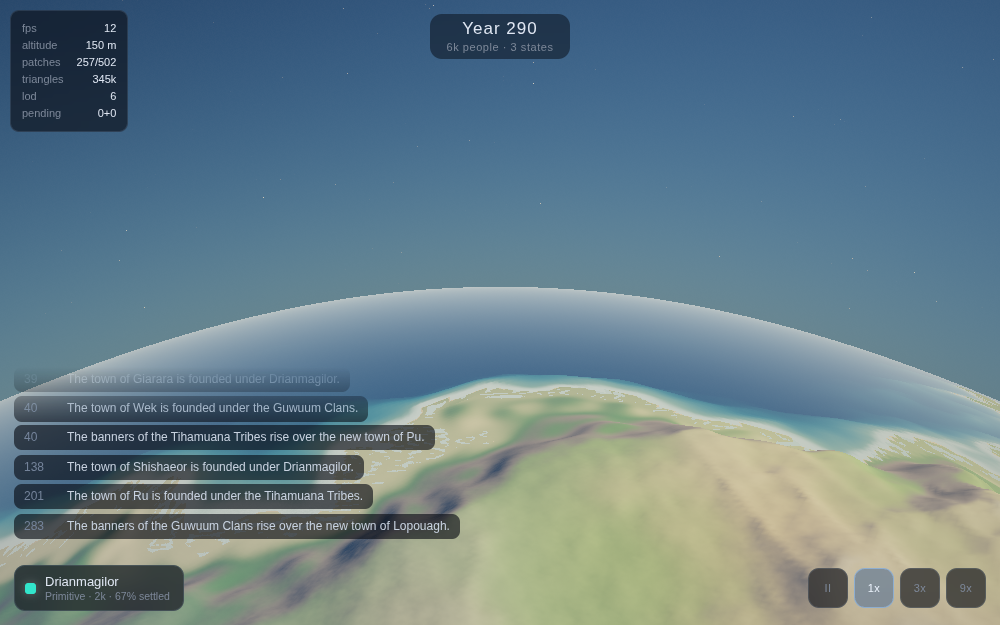
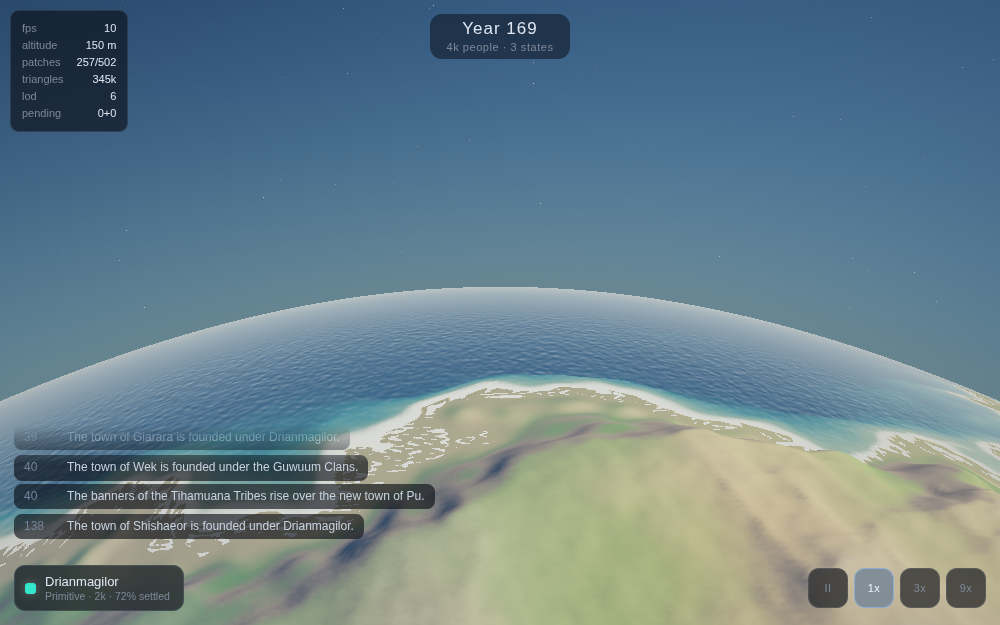
Rewrite the water: animated wave stack, surf, and a shore that joins up
The ocean was a mirror at every altitude a player actually looks at it
from, and the waterline read as two materials butting together rather
than as one shore.

Waves are now a stack of three bands — an eighteen-metre swell, wind
chop, and surface ripple — each drifting in its own direction at its own
speed, and each faded out once its wavelength drops below roughly four
pixels. That last part is the whole trick: a band is either large enough
to read as a wave or it is gone, so an ocean seen at a grazing angle
never turns into crawling speckle.

What fades out of the geometry is folded into roughness instead, which
is what waves below a pixel physically are. The sun's reflection
therefore broadens from a hard spark into the wide glitter path an ocean
shows from altitude, rather than the sea going glassy the moment you
climb.

The normal is deliberately shallow. Water is shaded through a Fresnel
term raised to the fifth power, and at grazing angles that turns a
modest slope into an enormous swing in reflectance — the first version
looked right head-on and stippled the entire sea at the horizon.

Shoreline:
- The waterline itself surges in and out on a slow cycle, out of phase
  along the coast, so a beach animates even when individual waves are
  far below a pixel.
- Foam breaks over it with shoreward-scrolling noise, plus a thin lip
  that always survives so the edge never disappears between surges.
- Shallow water refracts the sea floor, with the offset scaled by depth
[…]

diff --git a/src/render/post/compositeShader.ts b/src/render/post/compositeShader.ts
@@ -32,6 +32,8 @@ uniform sampler2D tDepth;
 uniform mat4 uInvProjView;
 uniform vec3 uCameraPos;
 uniform vec3 uCameraForward;
+uniform vec3 uCameraRight;
+uniform vec3 uCameraUp;
 uniform float uNear;
 uniform float uFar;
 
@@ -48,6 +50,7 @@ uniform float uScaleHeightR;
 uniform float uScaleHeightM;
 uniform float uAtmosphereStrength;
 uniform float uProjScale;
+uniform float uTanHalfFov;
 
 varying vec2 vUv;
 
@@ -194,35 +197,107 @@ void scatter(
 /* ------------------------------------------------------------------ ocean */
 
 /**
- * Animated surface normal.
+ * One band of the wave stack.
  *
- * Waves are about a metre across, so whether they can be drawn at all depends
- * on how much world space one pixel covers here — which at a grazing angle
- * across an ocean is vastly more than the distance alone suggests. Fading on
- * that footprint rather than on distance is the difference between a moving
- * sea and a field of white speckle.
+ * The weight argument is how much of this band survives at the current pixel
+ * footprint. A band is either large enough to resolve — in which case it is
+ * animated and contributes a real gradient — or it is gone. Nothing is ever
+ * drawn at a frequency the screen cannot represent, which is what keeps an
+ * ocean seen at a grazing angle from turning into crawling speckle.
+ *
+ * Single-octave value noise per band, not fBm: the stack already provides the
+ * octaves, and four texture-free samples a band is affordable in a fullscreen
+ * pass where twelve would not be.
  */
-vec3 waterNormal(vec3 pos, vec3 up, vec3 dir, float dist) {
-  float grazing = max(dot(up, -dir), 0.06);
-  float footprint = (dist / uProjScale) / grazing;
-  float detail = 1.0 - smoothstep(0.22, 1.0, footprint);
-  if (detail < 0.01) return up;
-
-  // Two scrolling octaves: a slow swell and a finer chop over it.
-  vec3 q = pos * 0.55 + vec3(0.0, uTime * 0.05, 0.0);
-  vec3 r = pos * 1.7 - vec3(uTime * 0.09, 0.0, uTime * 0.06);
-  float fine = 1.0 - smoothstep(0.08, 0.35, footprint);
-  float e = 0.06;
-  float n0 = fbm3(q) + fbm3(r) * 0.35 * fine;
-  float nx = fbm3(q + vec3(e, 0.0, 0.0)) + fbm3(r + vec3(e, 0.0, 0.0)) * 0.35 * fine;
-  float ny = fbm3(q + vec3(0.0, e, 0.0)) + fbm3(r + vec3(0.0, e, 0.0)) * 0.35 * fine;
-  float nz = fbm3(q + vec3(0.0, 0.0, e)) + fbm3(r + vec3(0.0, 0.0, e)) * 0.35 * fine;
-  vec3 grad = vec3(nx - n0, ny - n0, nz - n0);
-  // Project out the component along the normal so the wave stays a wave.
-  grad -= up * dot(grad, up);
-  return normalize(up + grad * 4.0 * detail);
+vec3 waveBand(vec3 pos, float lambda, float speed, vec3 drift, float weight) {
+  if (weight <= 0.003) return vec3(0.0);
+  float f = 6.2831853 / lambda;
+  vec3 q = pos * f + drift * (uTime * speed);
+  const float e = 0.28;
+  float n0 = vnoise(q);
+  vec3 g = vec3(
+    vnoise(q + vec3(e, 0.0, 0.0)) - n0,
+    vnoise(q + vec3(0.0, e, 0.0)) - n0,
+    vnoise(q + vec3(0.0, 0.0, e)) - n0);
+  return g * (weight / e);
 }
 
+/**
+ * How much of a wavelength survives at this pixel footprint.
+ *
+ * A wave needs several pixels across it to read as a wave rather than as
+ * noise, so a band is gone well before it reaches one pixel — the cutoff is at
+ * roughly four pixels per wavelength, not one.
+ */
+float bandWeight(float lambda, float footprint) {
+  return 1.0 - smoothstep(lambda * 0.06, lambda * 0.22, footprint);
+}
+
+/** Trowbridge-Reitz, for a sun glint that widens as waves go sub-pixel. */
+float ggx(float ndh, float rough) {
+  float a = rough * rough;
+  float a2 = a * a;
+  float d = ndh * ndh * (a2 - 1.0) + 1.0;
+  return a2 / (PI * d * d + 1e-7);
+}
+
+struct Water {
+  vec3 normal;
+  float roughness;
+};
+
+/**
+ * The sea surface: an animated normal plus the roughness of everything too
+ * small to animate.
+ *
+ * The second half matters as much as the first. Waves below a pixel do not
+ * vanish physically, they become microfacets — so as each band fades out of the
+ * normal it is folded into the roughness instead, and the sun's reflection
+ * broadens from a hard spark into the wide glitter path an ocean actually shows
+ * from altitude. Without it the sea is a mirror the moment you climb, which is
+ * the single most obvious tell that water is being faked.
+ */
+Water seaSurface(vec3 pos, vec3 up, vec3 dir, float dist) {
+  float grazing = max(dot(up, -dir), 0.05);
+  float footprint = (dist / uProjScale) / grazing;
+
+  // Long swell, wind chop, and surface ripple.
+  float wSwell = bandWeight(18.0, footprint);
+  float wChop = bandWeight(4.5, footprint);
+  float wRipple = bandWeight(1.1, footprint);
+
+  vec3 grad = vec3(0.0);
+  grad += waveBand(pos, 18.0, 0.9, vec3(0.7, 0.2, 0.6), wSwell);
+  grad += waveBand(pos, 4.5, 2.1, vec3(-0.5, 0.1, 0.85), wChop * 0.45);
+  grad += waveBand(pos, 1.1, 4.5, vec3(0.9, 0.0, -0.4), wRipple * 0.2);
+
+  // Project out the component along the normal so a wave stays a wave.
+  grad -= up * dot(grad, up);
+
+  Water w;
+  // Kept small on purpose. The water is shaded through a Fresnel term raised
+  // to the fifth power, and at the grazing angles you see most of an ocean at,
+  // that turns a modest slope into a huge swing in reflectance — a normal
+  // strong enough to look right head-on stipples the whole sea at the horizon.
+  w.normal = normalize(up + grad * 0.16);
+  // Whatever faded out of the geometry reappears as microfacet roughness.
+  float resolved = (wSwell * 0.25 + wChop * 0.3 + wRipple * 0.45);
+  w.roughness = mix(0.34, 0.045, resolved);
+  return w;
+}
+
+/**
+ * How far the tide has run up the beach, 0..1.
+ *
+ * A slow surge, out of phase from one stretch of coast to the next so the whole
+ * planet does not breathe in unison. This is what animates a shoreline at zoom
+ * levels where individual waves are far too small to see: the waterline itself
+ * moves.
+ */
+float shoreSurge(vec3 pos) {
+  float phase = vnoise(pos * 0.012) * 6.2831853;
+  return 0.5 + 0.5 * sin(uTime * 0.55 + phase);
+}
 void main() {
   // Reconstruct the world-space view ray for this pixel.
   vec4 far = uInvProjView * vec4(vUv * 2.0 - 1.0, 1.0, 1.0);
@@ -249,47 +324,76 @@ void main() {
   if (sea.x > 0.0 && sea.x < sceneDist) {
     vec3 surface = uCameraPos + dir * sea.x;
     vec3 up = normalize(surface);
-    vec3 N = waterNormal(surface, up, dir, sea.x);
+    Water w = seaSurface(surface, up, dir, sea.x);
+    vec3 N = w.normal;
 
-    // How much water the ray passes through before hitting the sea floor.
+    // How much water the ray passes through before reaching the sea floor.
     float depth = hitScene ? (sceneDist - sea.x) : (sea.y - sea.x);
     depth = max(depth, 0.0);
 
-    // Absorption: the sea floor's colour is progressively replaced by the
-    // water's own, which is what makes shallows legible and deeps opaque.
-    // Absorption lengths are tuned to this planet's bathymetry, not Earth's:
-    // the deepest trench here is about 22 m, so water has to reach its full
-    // colour within a few metres or every sea reads as a bright lagoon.
-    const vec3 SHALLOW = vec3(0.050, 0.26, 0.30);
+    // Refraction. The sea floor is displaced by the surface slope, which is
+    // what makes shallow water shimmer. The offset is scaled by depth so it
+    // vanishes exactly at the waterline — otherwise it drags land colour out
+    // across the shore and fringes every beach.
+    vec3 slope = N - up;
+    // Apparent displacement of the floor, in metres, converted to a UV offset:
+    // the frustum spans 2*tan(fov/2)*distance world units vertically.
+    float disp = 0.4 * min(depth, 3.0);
+    vec2 offset = vec2(dot(slope, uCameraRight), dot(slope, uCameraUp))
+                * disp / (2.0 * uTanHalfFov * max(sea.x, 1.0));
+    offset = clamp(offset, vec2(-0.03), vec2(0.03));
+    vec3 floorColor = texture2D(tScene, vUv + offset).rgb;
+
+    // Absorption: the floor's colour is progressively replaced by the water's
+    // own. The lengths are tuned to this planet's bathymetry, not Earth's —
+    // the deepest trench here is 22 m — but kept deliberately soft, because a
+    // sharp ramp turns a one-metre LOD wobble in the sea floor into a visible
+    // band of colour crawling along the coast.
+    const vec3 SHALLOW = vec3(0.055, 0.30, 0.33);
     const vec3 DEEP    = vec3(0.003, 0.026, 0.072);
-    float absorb = 1.0 - exp(-depth * 0.34);
-    vec3 body = mix(color * vec3(0.42, 0.74, 0.82), SHALLOW, absorb);
-    body = mix(body, DEEP, 1.0 - exp(-depth * 0.115));
+    float absorb = 1.0 - exp(-depth * 0.24);
+    vec3 body = mix(floorColor * vec3(0.44, 0.76, 0.84), SHALLOW, absorb);
+    body = mix(body, DEEP, 1.0 - exp(-depth * 0.085));
 
     float shade = clamp(dot(up, uSunDir) * 1.4 + 0.12, 0.0, 1.0);
     body *= mix(0.10, 1.0, shade);
 
-    // Fresnel towards a simple sky tint. A full reflection probe is not worth
-    // it here: at these angles the sky is nearly uniform anyway.
+    // Fresnel towards a simple sky tint. A reflection probe is not worth it
+    // here: at these angles the sky is close to uniform anyway.
     float fres = 0.02 + 0.98 * pow(1.0 - max(dot(N, -dir), 0.0), 5.0);
     vec3 skyTint = mix(vec3(0.16, 0.28, 0.46), vec3(0.55, 0.70, 0.95), shade);
     vec3 water = mix(body, skyTint * (0.25 + 0.75 * shade), fres * 0.85);
 
-    // Sun glint.
+    // Sun glint, broadening with the roughness the wave stack handed back.
     vec3 H = normalize(uSunDir - dir);
-    float spec = pow(max(dot(N, H), 0.0), 400.0);
-    water += uSunColor * uSunIntensity * spec * 0.35 * step(0.0, dot(up, uSunDir));
+    float glint = ggx(max(dot(N, H), 0.0), w.roughness);
+    water += uSunColor * uSunIntensity * glint * 0.035
+           * step(0.0, dot(up, uSunDir)) * fres;
 
-    // Shoreline foam, only where the sea floor is nearly at the surface.
-    // Foam only right at the waterline. Widening this at all turns the whole
-    // continental shelf white, because a shelf on this planet is only metres
-    // deep across kilometres of coast.
-    if (hitScene && depth < 1.2) {
-      float band = smoothstep(1.0, 0.05, depth);
-      float churnScale = 1.0 - smoothstep(0.08, 0.5, (sea.x / uProjScale));
-      float churn = mix(0.5, fbm3(surface * 2.2 + vec3(uTime * 0.35)), churnScale);
-      float foam = band * smoothstep(0.38, 0.86, churn + band * 0.18);
-      water = mix(water, vec3(0.82, 0.89, 0.93) * (0.25 + 0.75 * shade), foam * 0.6);
+    /* --- Surf ------------------------------------------------------------ */
+    if (hitScene && depth < 3.2) {
+      float surge = shoreSurge(surface);
+      // The waterline itself advances and retreats, which is what reads as
+      // motion at zoom levels where a single wave is far below a pixel.
+      float reach = mix(0.5, 1.9, surge);
+      float band = smoothstep(reach, 0.0, depth);
+
+      // Broken water, scrolling shoreward and stretched along the coast.
+      float footprint = sea.x / uProjScale;
+      float churnDetail = 1.0 - smoothstep(0.05, 0.45, footprint);
+      float churn = mix(
+        0.55,
+        vnoise(surface * 1.9 + vec3(0.0, uTime * 0.9, 0.0)) * 0.6
+          + vnoise(surface * 5.5 - vec3(uTime * 1.7, 0.0, 0.0)) * 0.4,
+        churnDetail);
+
+      float foam = band * smoothstep(0.32, 0.86, churn + band * 0.30);
+      // A thin bright lip right at the edge, always present regardless of the
+      // noise, so the waterline never disappears entirely between surges.
+      foam = max(foam, smoothstep(0.35, 0.0, depth) * 0.55);
+
+      vec3 foamColor = vec3(0.86, 0.92, 0.95) * (0.28 + 0.72 * shade);
+      water = mix(water, foamColor, clamp(foam, 0.0, 1.0) * 0.8);
     }
 
     color = water;

diff --git a/src/render/materials/terrain.ts b/src/render/materials/terrain.ts
@@ -126,10 +126,20 @@ void main() {
     albedo = biomeColor(temperature, moisture);
     albedo = groundVariation(albedo, vWorldPos, moisture);
 
-    // Beaches: a narrow sand band just above the waterline, only where the
-    // ground is flat enough for sand to gather.
-    float beach = smoothstep(1.8, 0.1, height) * smoothstep(0.35, 0.1, slope);
-    albedo = mix(albedo, C_SAND, beach);
+    // Beaches: a sand band above the waterline, only where the ground is flat
+    // enough for sand to gather. Deliberately wider and softer than the water
+    // pass's shallow-water ramp — when the two transitions were the same width
+    // they met edge to edge at the waterline and read as two different
+    // materials butting together instead of one shore.
+    float beach = smoothstep(3.2, 0.2, height) * smoothstep(0.4, 0.12, slope);
+    albedo = mix(albedo, C_SAND, beach * 0.92);
+
+    // Wet sand. The strip the water has just been over is darker and shinier
+    // than the dry beach behind it, and it is the single cheapest thing that
+    // makes land and sea look like they belong to each other rather than being
+    // composited over one another.
+    float wet = smoothstep(1.4, 0.0, height) * smoothstep(0.45, 0.15, slope);
+    albedo *= mix(1.0, 0.58, wet);
 
     // Exposed rock on anything steep.
     vec3 rock = mix(C_ROCK, C_ROCK_WARM, temperature);
@@ -154,6 +164,10 @@ void main() {
   // the ground under your feet turns into pure aliasing out there.
   float camDist = length(cameraPosition - vWorldPos);
   float detail = uDetailStrength * (1.0 - smoothstep(40.0, 300.0, camDist));
+  // Never underwater. Seabed grain seen through the water fights the water's
+  // own surface detail, and the two crawling against each other at the
+  // shoreline is exactly the clash it looks like.
+  detail *= smoothstep(-0.5, 2.5, height);
 
   if (detail > 0.002) {
     vec3 dp = vWorldPos * 0.35;
@@ -220,7 +234,9 @@ void main() {
 
   // A dull sheen on wet ground and snow, enough to catch the low sun.
   float wetness = height > 0.0
-    ? max(smoothstep(0.62, 0.9, vData.y) * 0.25, smoothstep(0.3, 0.1, vData.z) * 0.4)
+    ? max(
+        max(smoothstep(0.62, 0.9, vData.y) * 0.25, smoothstep(0.3, 0.1, vData.z) * 0.4),
+        smoothstep(1.4, 0.0, height) * 0.65)
     : 0.5;
   vec3 V = normalize(cameraPosition - vWorldPos);
   vec3 H = normalize(V + uSunDir);

diff --git a/src/render/post/pipeline.ts b/src/render/post/pipeline.ts
@@ -140,6 +140,9 @@ export class RenderPipeline {
 
   private invProjView = new THREE.Matrix4();
   private forward = new THREE.Vector3();
+  private right = new THREE.Vector3();
+  private upAxis = new THREE.Vector3();
+  private tmpBasis = new THREE.Vector3();
   /** Camera altitude above sea level, set each frame by the app. */
   camAltitude = 1000;
 
@@ -165,6 +168,8 @@ export class RenderPipeline {
         uInvProjView: { value: new THREE.Matrix4() },
         uCameraPos: shared.uCameraPos,
         uCameraForward: { value: new THREE.Vector3() },
+        uCameraRight: { value: new THREE.Vector3() },
+        uCameraUp: { value: new THREE.Vector3() },
         uNear: { value: 1 },
         uFar: { value: 1000 },
         uSunDir: shared.uSunDir,
@@ -185,6 +190,7 @@ export class RenderPipeline {
         // only artistic dial: how bright the sky reads against lit ground.
         uAtmosphereStrength: { value: 3.4 },
         uProjScale: { value: 1000 },
+        uTanHalfFov: { value: 0.5 },
       },
       depthTest: false,
       depthWrite: false,
@@ -287,8 +293,9 @@ export class RenderPipeline {
 
   render(scene: THREE.Scene, camera: THREE.PerspectiveCamera): void {
     const r = this.renderer;
-    this.compositeMaterial.uniforms.uProjScale.value =
-      this.height / (2 * Math.tan((camera.fov * Math.PI) / 360));
+    const tanHalfFov = Math.tan((camera.fov * Math.PI) / 360);
+    this.compositeMaterial.uniforms.uProjScale.value = this.height / (2 * tanHalfFov);
+    this.compositeMaterial.uniforms.uTanHalfFov.value = tanHalfFov;
 
 
     // 1. Scene into the HDR target.
@@ -302,6 +309,11 @@ export class RenderPipeline {
     u.uInvProjView.value.copy(this.invProjView);
     camera.getWorldDirection(this.forward);
     u.uCameraForward.value.copy(this.forward);
+    // The camera's screen basis, so the water pass can turn a world-space
+    // surface slope into a screen-space refraction offset.
+    camera.matrixWorld.extractBasis(this.right, this.upAxis, this.tmpBasis);
+    u.uCameraRight.value.copy(this.right);
+    u.uCameraUp.value.copy(this.upAxis);
     u.uNear.value = camera.near;
     u.uFar.value = camera.far;
     u.tScene.value = this.sceneTarget.texture;
